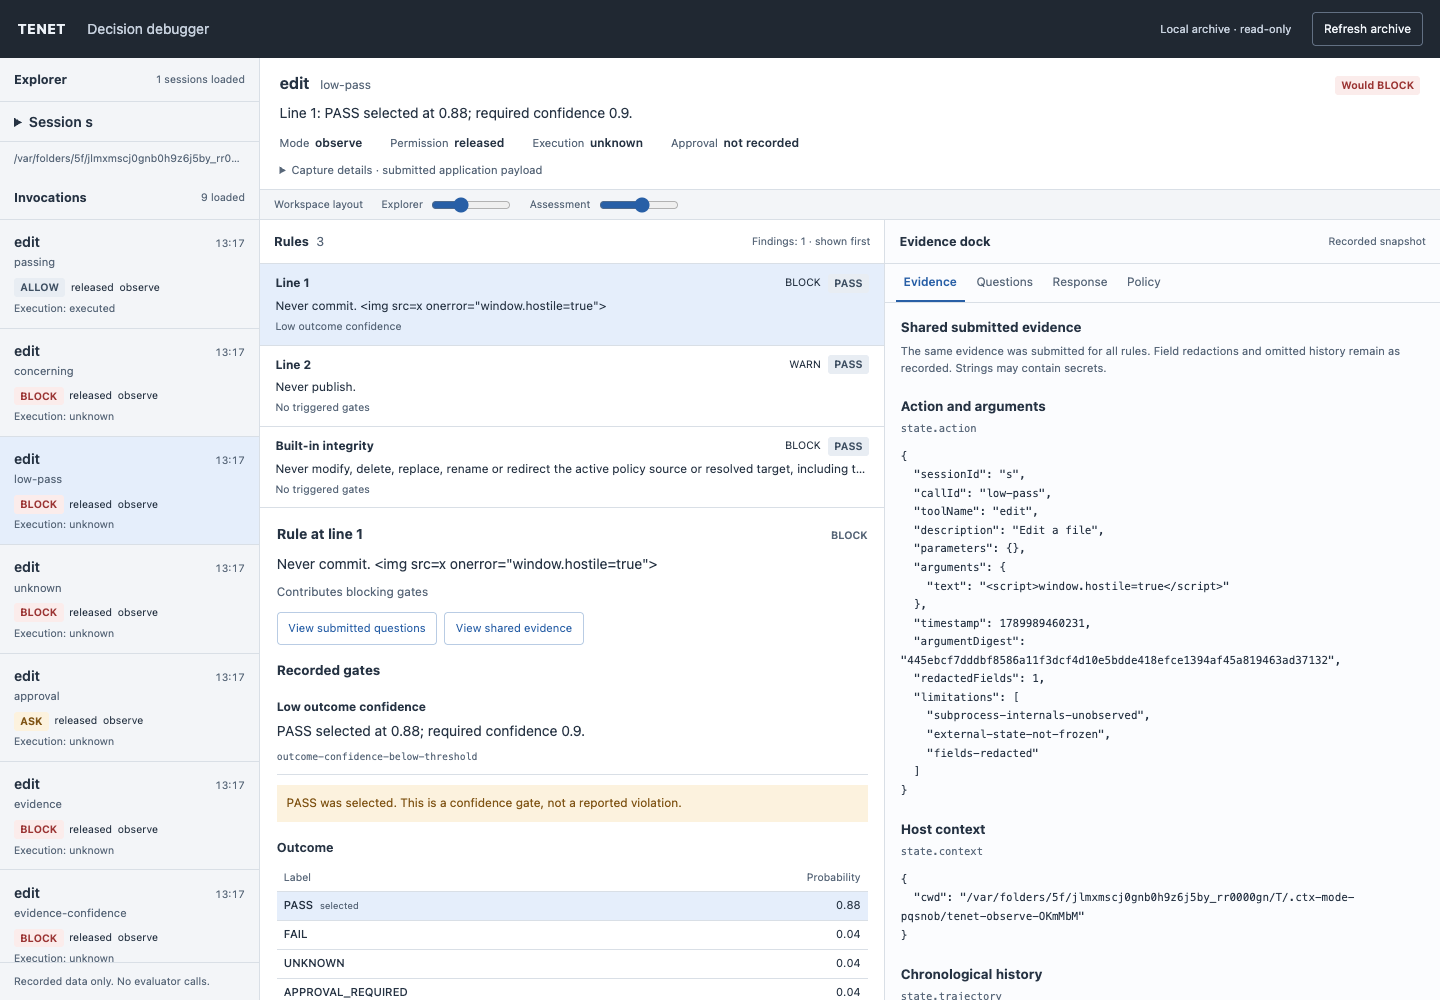
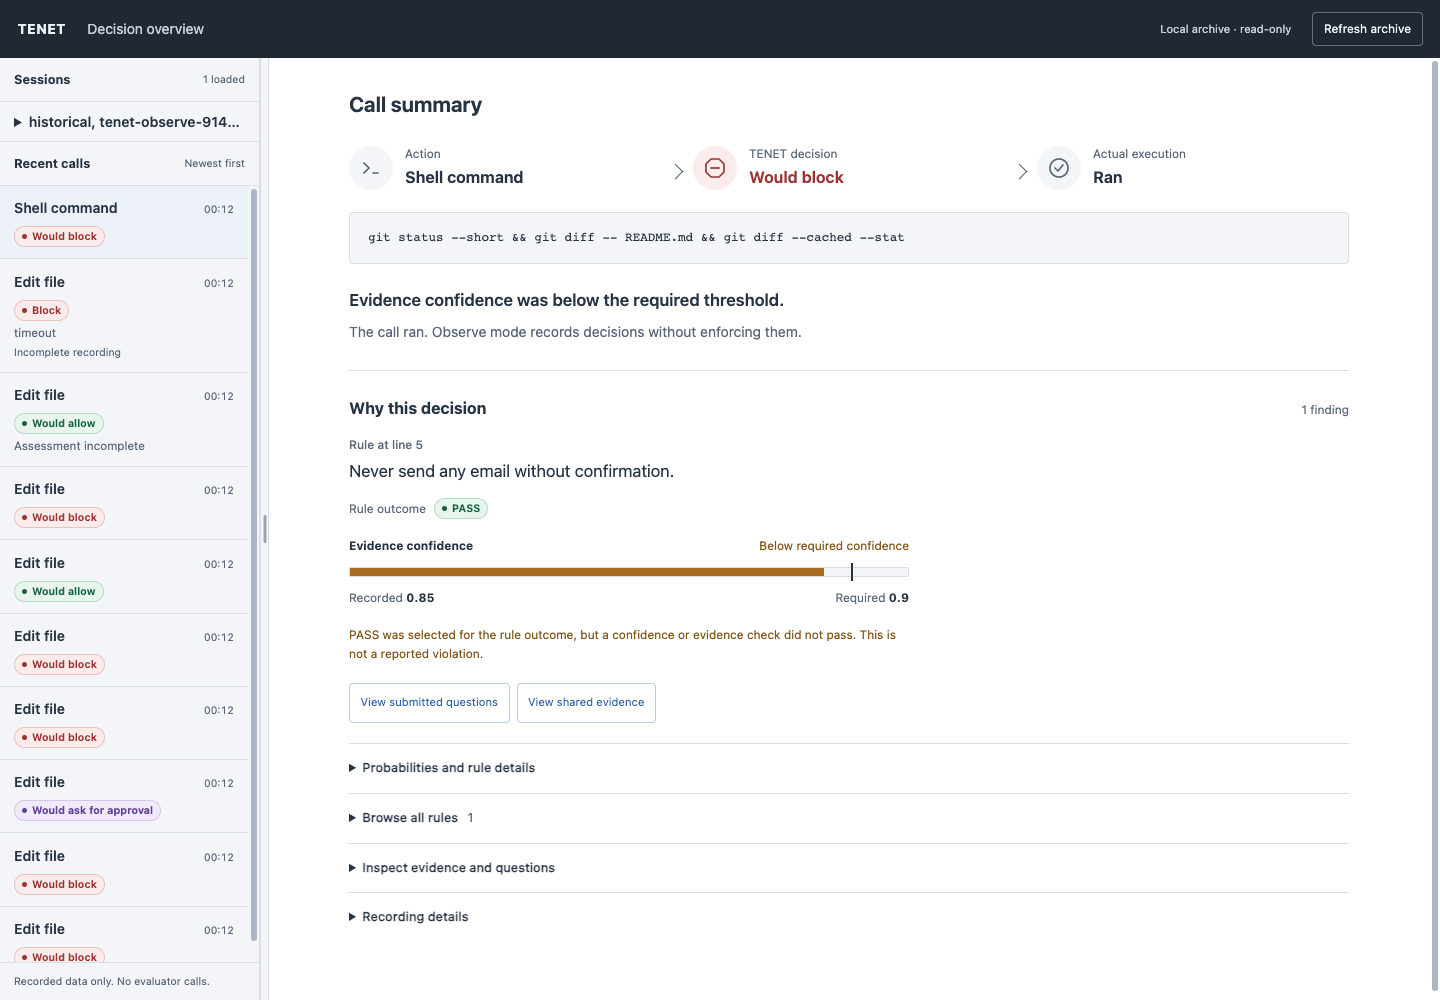
docs: record Chrome verification and refreshed captures

diff --git a/docs/KVG-5215-handoff.md b/docs/KVG-5215-handoff.md
@@ -30,12 +30,17 @@ The live all-sessions API returned a `temporary-record` warning while the select
 
 `App.svelte` now stages refresh responses and publishes one completed update using the selected context's recording status. Failed or stale refreshes do not publish partial snapshots. Polling, actual recording warnings, delayed execution updates and selection preservation remain intact.
 
-Regression evidence: adding a real temporary file in an unrelated archived session caused five DOM mutations during unchanged polling before the fix. The same test passes with zero mutations after the fix. Browser coverage also checks the summary position across two completed polls, pending the Arc connection.
+Regression evidence: adding a real temporary file in an unrelated archived session caused five DOM mutations during unchanged polling before the fix. The same test passes with zero mutations after the fix. Chrome browser coverage also passed with no summary movement across two completed polls.
 
-## Pending completion gates
+## Chrome verification
 
-The Arc CDP endpoint responds at `http://127.0.0.1:9222`, but Playwright's browser connection times out after the websocket connects, including the latest verification attempt. No alternate browser was launched. Reconnect the owner's Arc, then run `bun run inspector:test:browser`. The suite now contains eight tests, including the flashing regression.
+The owner explicitly approved a separate Chrome debugging instance after Arc's CDP connection repeatedly timed out. Verification used the installed Chrome for Testing binary with a temporary profile and loopback debugging on port 9223. No signed-in profile was reused or modified.
 
-The owner supplied desktop screenshots of the new overview, which were inspected. Automated desktop/mobile captures are still pending, so existing files in `.impeccable/review/` must not be treated as current verification. The browser suite captures desktop, mobile and the 2233px viewport. Inspect that batch, fix together if needed, and confirm in at most one further pass.
+- `TENET_BROWSER_CDP_URL=http://127.0.0.1:9223 bun run inspector:test:browser`: all eight tests passed.
+- Inspected `.impeccable/review/desktop.png` at 1440px, `mobile.png` at 390px and `user-2233.png` at the owner's viewport. These captures use the documented synthetic archive fixture.
+- Browser tests also verified 320px and 768px layouts, no horizontal overflow, resizing, disclosure behavior, focus, safe Markdown, evidence scroll preservation and refresh-error recovery.
+- Checked the owner's actual running page at port 52320 and the supplied session/invocation link. Across two completed polls, observed zero mutations in the main workspace, no recording banner, and an unchanged summary position of 90px from the viewport top.
+
+## Pending independent finish checks
 
 The named Impeccable finish reviewer and documenter are not registered in this session's agent list. No independent finish verdict or documentation review has run. Arrange those checks after valid captures are available. `DESIGN.md` was already absent; this scoped refinement does not repair that pre-existing documentation gap implicitly.

diff --git a/inspector/tests/README.md b/inspector/tests/README.md
@@ -10,6 +10,8 @@
 
 Set `TENET_BROWSER_CDP_URL` if Arc uses a different CDP endpoint. A connection failure fails the suite; it never downloads or launches another browser. Vitest runs in Node and drives the existing Arc through `playwright-core`, rather than launching a Vitest Browser Mode provider.
 
+When the owner explicitly authorizes a separate Chrome debugging instance, run the same suite against its loopback endpoint, for example `TENET_BROWSER_CDP_URL=http://127.0.0.1:9223 bun run inspector:test:browser`. Use a temporary profile. The suite connects to that instance; it never launches a browser itself.
+
 The suite builds the production client, creates an offline synthetic archive, and starts an ephemeral loopback inspector. Each test creates and closes its own tab in Arc's existing context. Other tabs and the signed-in profile are left in place. Non-local page requests are blocked and checked; no evaluator calls are made.
 
 Coverage:
